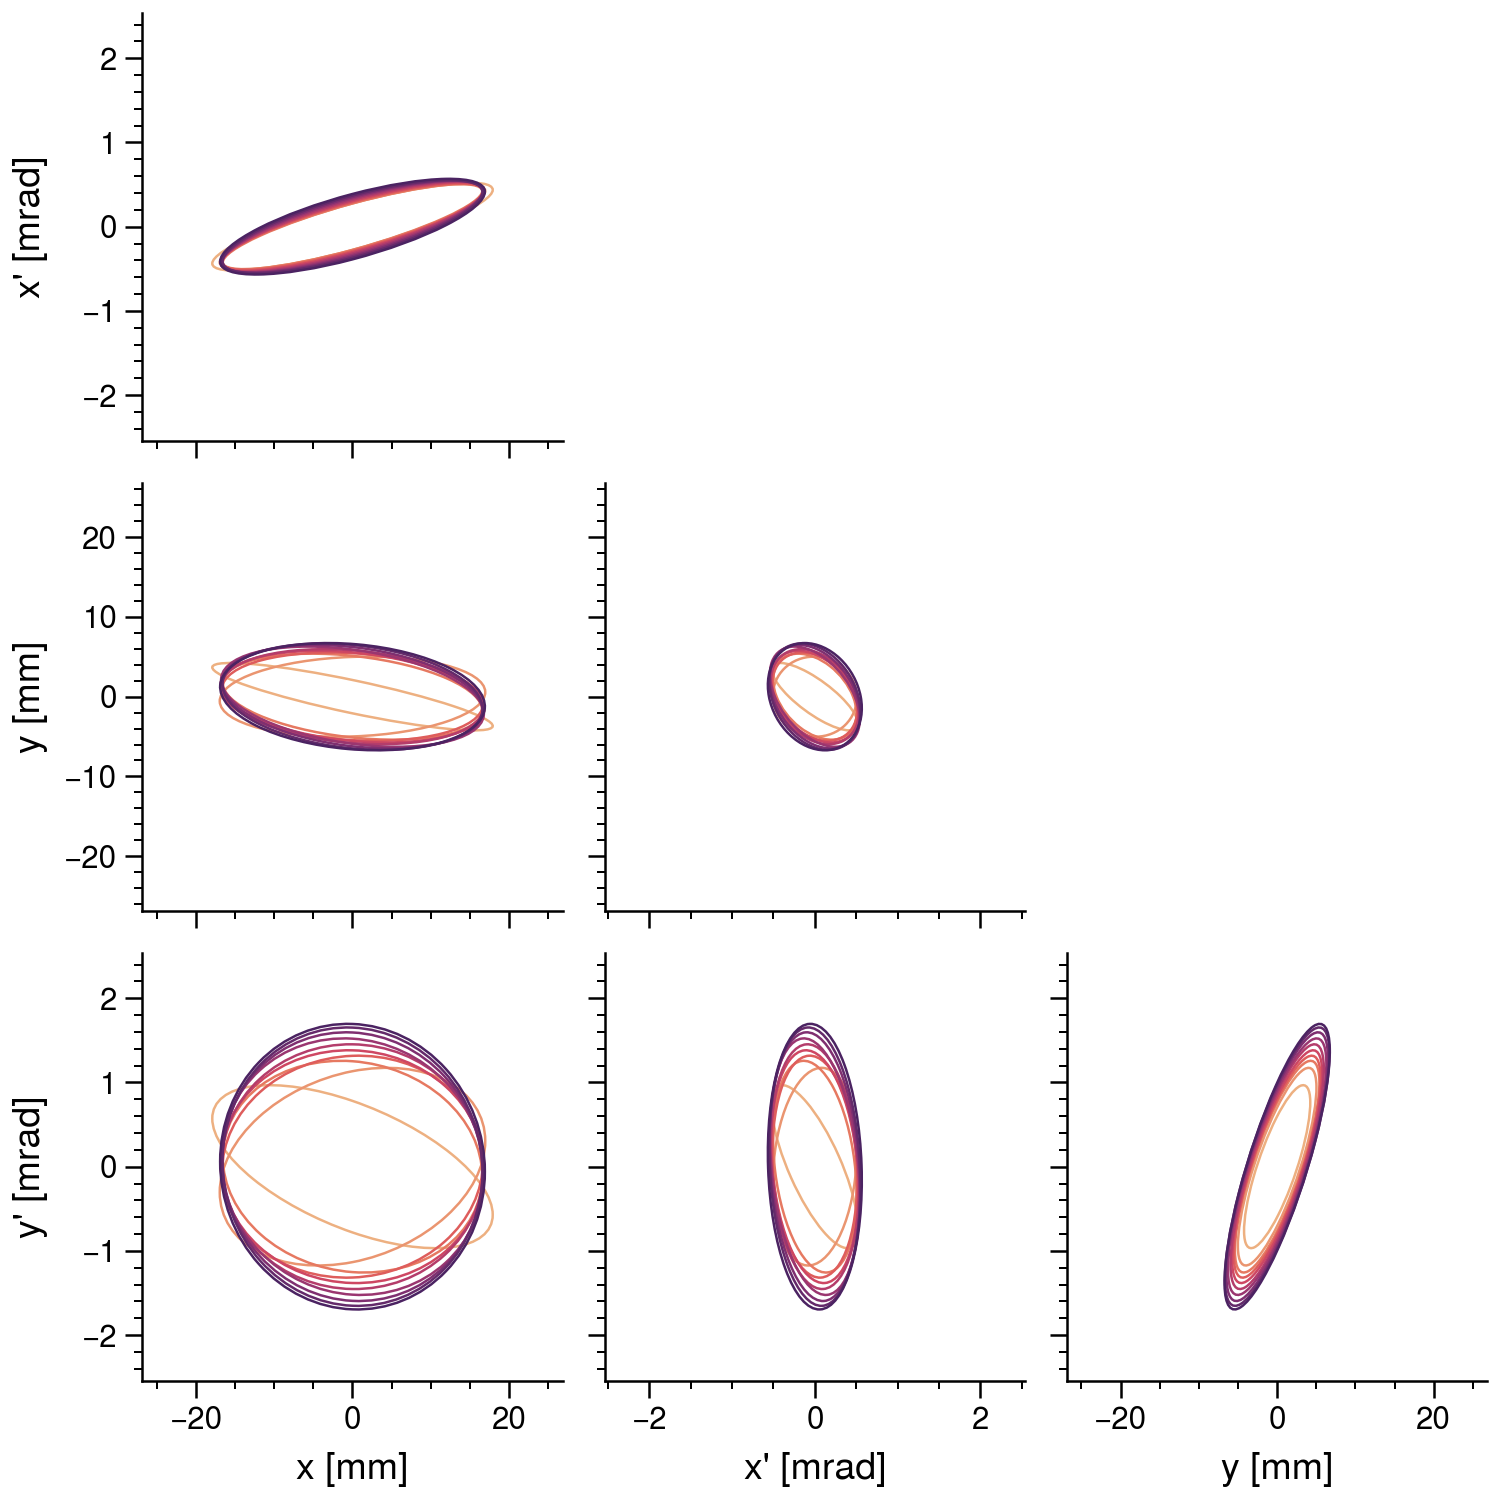
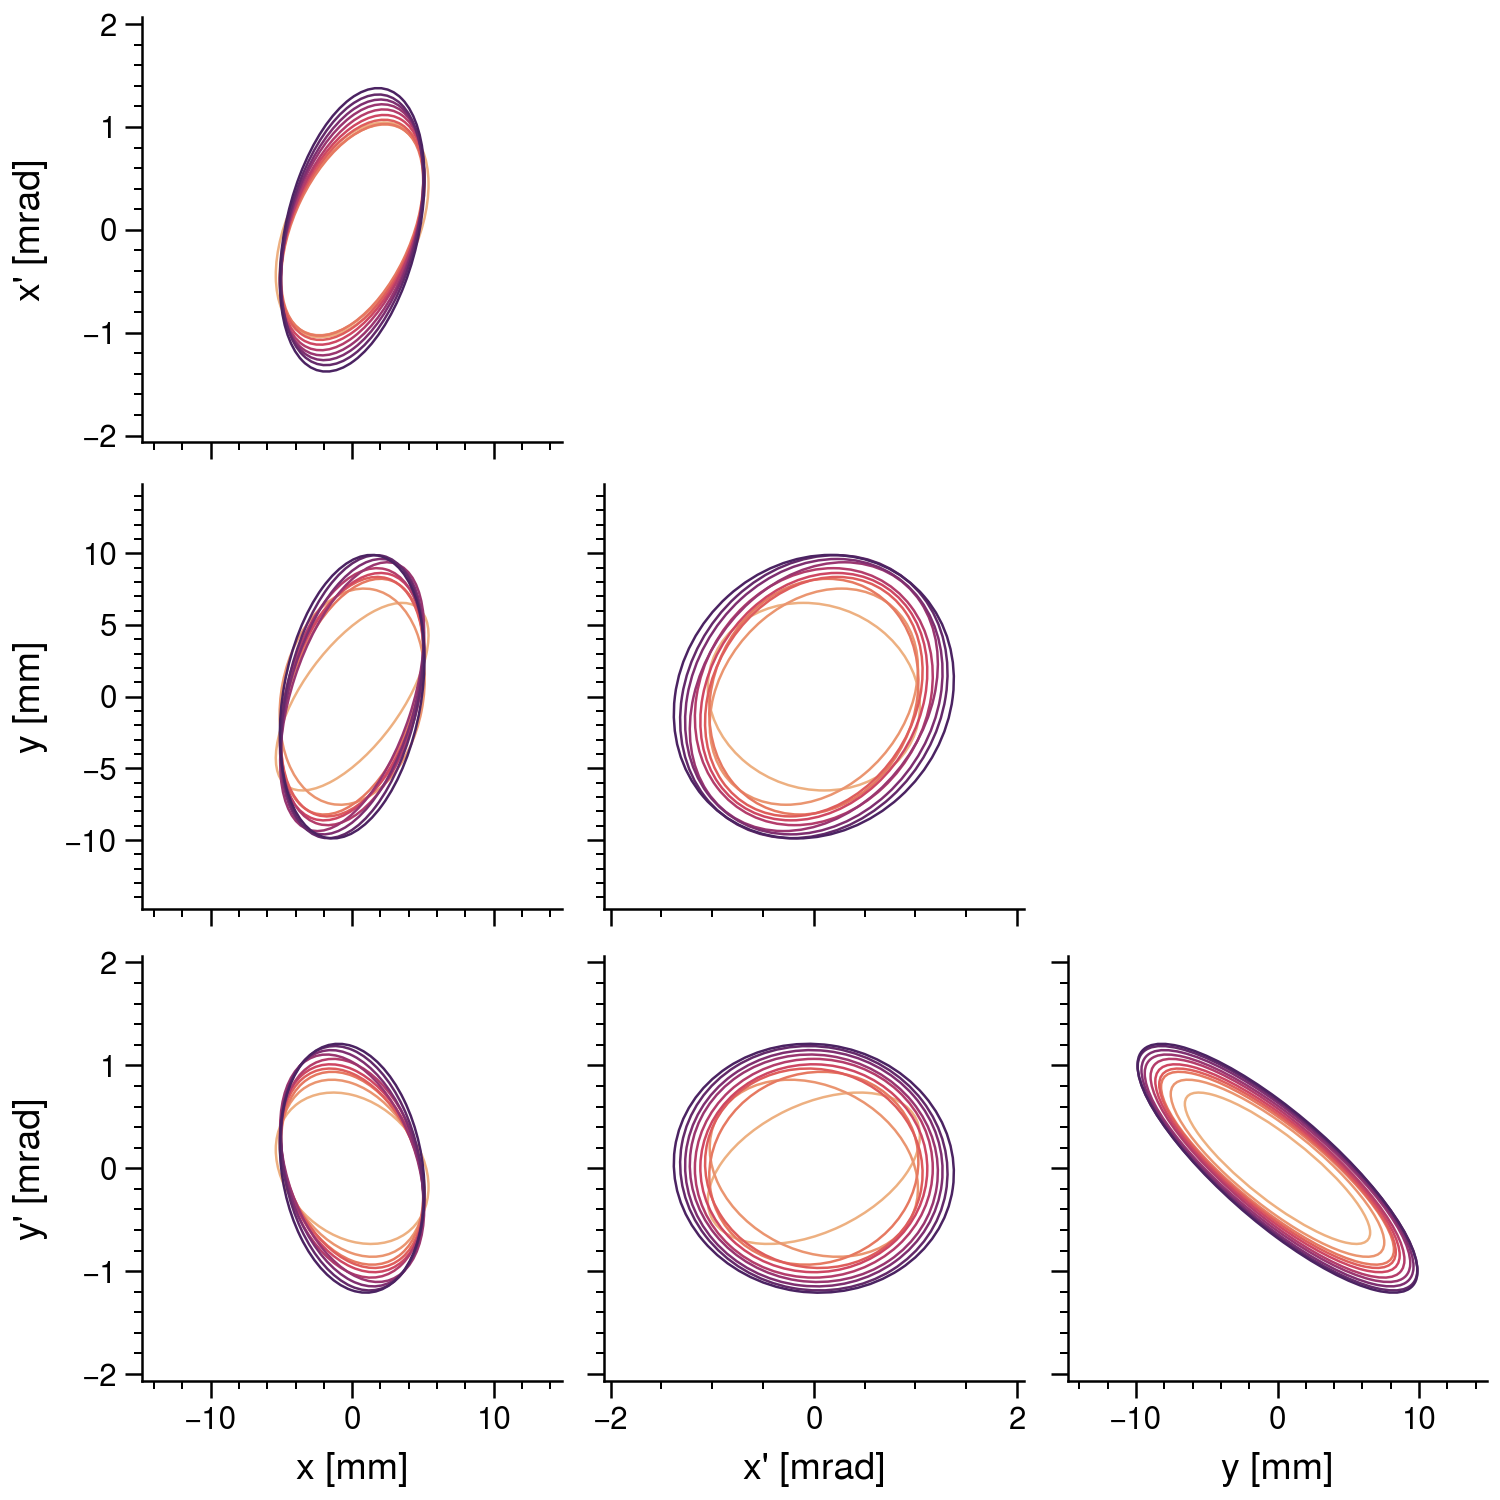
Swap figures

diff --git a/MainText/chapter5.tex b/MainText/chapter5.tex
@@ -49,7 +49,7 @@ Simulations predict that the distribution will undergo significant change during
 
 Before setting up for elliptical painting, a production beam was measured for comparison. Recall that a production beam is produced using correlated painting: the displacements at the foil are increased from an initial offset to their final value, and the slope at the foil is always zero. The number of injected turns was reduced from 1000 to 500, and the beam was measured every 50 turns. 
 
-The measured wire-scanner profiles are shown in Fig.~\ref{fig:exp1a_wsmeas}, and the reconstructed emittances and covariance ellipses at the target are shown in Fig.~\ref{fig:exp1a_emittances}.
+The measured wire-scanner profiles are shown in Fig.~\ref{fig:exp1a_wsmeas}, and the reconstructed emittances and covariance ellipses at BPM17, just before QH18, are shown in Fig.~\ref{fig:exp1a_emittances}.
 %
 \begin{figure}[!p]
     \centering
@@ -76,11 +76,10 @@ The measured wire-scanner profiles are shown in Fig.~\ref{fig:exp1a_wsmeas}, and
     \begin{subfigure}[t]{0.39\textwidth}
         \includegraphics[width=\textwidth]{Images/chapter5/exp1a/emittances.png}
     \end{subfigure}
-    \caption{Reconstructed emittances and covariance ellipses of a 1 GeV production beam during injection (500 turns). In this and subsequent figures, the reconstruction is performed at the target, and the light/dark ellipses correspond to the start/end of injection.}
+    \caption{Reconstructed emittances and covariance ellipses of a 1 GeV production beam during injection (500 turns). In this and subsequent figures, the reconstruction is performed at BPM17, and the light/dark ellipses correspond to the start/end of injection.}
     \label{fig:exp1a_emittances}
 \end{figure}
 %
-
 Each subplot in Fig.~\ref{fig:exp1a_wsmeas} shows the evolution of the projection onto a single wire during injection; each row corresponds to a different wire-scanner and each column corresponds to a different projection axis — $x$, $y$, or $u$. That the closed orbit starts offset from the foil is evident from initial two peaks in the $x$ and $y$ projections. The distribution forms a ring or donut in $x$-$x'$ and $y$-$y'$, and the hollow center eventually becomes partially filled due to space charge and other nonlinear effects.
 
 The main feature of Fig.~\ref{fig:exp1a_emittances} is that there is very little measured cross-plane correlation in the beam, as expected for the correlated painting method. The error bars are calculated by repeating the reconstruction many times with noise added to the measured moments, then taking the mean and standard deviation over the trials. This can lead to asymmetric error bars, which will be shown in the next sections. (Previous measurements indicate that the moments estimated from the profiles have less than 2\% variation if repeated multiple times.)
@@ -109,7 +108,7 @@ Next, we attempted to carry out elliptical painting. First, [as shown in Fig.~\r
 
 [... We should probably show some screenshots of the RIC application. Maybe not here, but somewhere. ...]
 
-The measured wire-scanner profiles are shown in Fig.~\ref{fig:exp1b_wsmeas}, and the reconstructed emittances and covariance ellipses at the target are shown in Fig.~\ref{fig:exp1a_emittances}.
+The measured wire-scanner profiles are shown in Fig.~\ref{fig:exp1b_wsmeas}, and the reconstructed emittances and covariance ellipses at BPM17 are shown in Fig.~\ref{fig:exp1a_emittances}.
 %
 \begin{figure}[!p]
     \centering
@@ -183,7 +182,7 @@ The remaining free parameters are the beam intensity and the maximum horizontal 
 %
 It is desirable to paint equal emittances. In simulations, this can easily be achieved since the $\beta$ functions are known. In reality, the exact $\beta$ functions are unknown. The model $\beta$ functions at the injection point are both near 10 mm/mrad; for $y'_{max}$ = 1 mrad, this would require $x_{max}$ = 10 mm — a small beam. But we must keep in mind that the ratio is quite sensitive to changes in $\beta_{x, y}$; for example, $\beta_x$ = $\beta_y$ = 11 m/rad would produce $\varepsilon_y / \varepsilon_x \approx 1.5$. We decided to use $x_{max}$ = 21 mm. The beam intensity was kept at 500 injected turns, or roughly $0.75 \times 10^{14}$ protons.
 
-The measured wire-scanner profiles are shown in Fig.~\ref{fig:exp2_wsmeas}, and the reconstructed emittances and covariance ellipses at the target are shown in Fig.~\ref{fig:exp2_emittances}.
+The measured wire-scanner profiles are shown in Fig.~\ref{fig:exp2_wsmeas}, and the reconstructed emittances and covariance ellipses at BPM17 are shown in Fig.~\ref{fig:exp2_emittances}.
 %
 \begin{figure}[!p]
     \centering
@@ -238,7 +237,7 @@ The same setup for Experiment 2 was repeated in Experiment 3. One difference was
     \label{fig:exp3_search}
 \end{figure}
 %
-(The intensities are not exact; they are obtained by multiplying the nominal minipulse intensity by the number of injected turns.) Space charge clearly has an effect on the final distribution. It is somewhat surprising that the split in the intrinsic emittances increased with the beam intensity. The middle cluster in the right subplot was identified as the most interesting case, and the measurement process of the  of the previous two experiments were repeated. See Fig.~\ref{fig:exp3_wsmeas} and Fig.~\ref{fig:exp3_emittances}.
+(The intensities are not exact; they are obtained by multiplying the nominal minipulse intensity by the number of injected turns.) Space charge clearly has an effect on the final distribution. It is somewhat surprising that the split in the intrinsic emittances increased with the beam intensity. The middle cluster in the right subplot was identified as the most interesting case, and the measurement process of the  of the previous two experiments were repeated — see Fig.~\ref{fig:exp3_wsmeas} and Fig.~\ref{fig:exp3_emittances}.
 %
 \begin{figure}[!p]
     \centering

diff --git a/MainText/chapter3.tex b/MainText/chapter3.tex
@@ -7,6 +7,7 @@ Holmes et al. recently performed PIC simulations in the original ORBIT code to d
 
 The PyORBIT code tracks a Bunch object containing the 6D phase space coordinates. The accelerator is modeled as a series of nodes, each of which modifies the phase space coordinates in some way. Following the TEAPOT approach [\ref{}], single particles are transported using symplectic maps derived from the Hamiltonian. Here, we briefly describe the approach to nonlinear magnetic fringe fields and collective effects. 
 
+
 \subsection{Space charge}
 
 A major component of beam physics simulations is the calculation of the space charge force. Direct Coloumb sums are currently infeasible. The Vlasov equation can be solved directly, but this is difficult in 2D and 3D. The particle-in-cell (PIC) method is a “best of both worlds” approach in which an $N$ particle bunch is represented by $M$ macroparticles, where $M \ll N$. The macroparticles are tracked according to Eq.~\eqref{eq:eom_with_spacecharge}. The electric field is obtained by solving Eq.~\eqref{eq:Poisson} on a grid. The key step is transforming between the discrete and continuous representation. The PIC loop is shown in Fig.~\ref{fig:pic_loop}. 
@@ -55,7 +56,7 @@ An important effect during charge-exchange injection is Coulomb scattering durin
 Finally, longitudinal focusing in the ring is provided by two RF cavities. The harmonic frequency $h$ is defined as the RF frequency divided by the revolution frequency of the beam; one cavity operates at $h = 1$ and the other operates at $h = 2$, both at an amplitude near 5 kV. The energy gain $\Delta \epsilon$ for a particle passing through the cavity is approximated as  
 %
 \begin{equation}
-    \Delta \epsilon = q V \sin((h \phi + \phi_0).
+    \Delta \epsilon = q V \sin(h \phi + \phi_0).
 \end{equation}
 %
 The particle phase $\phi$ is zero for the synchronous particle.
